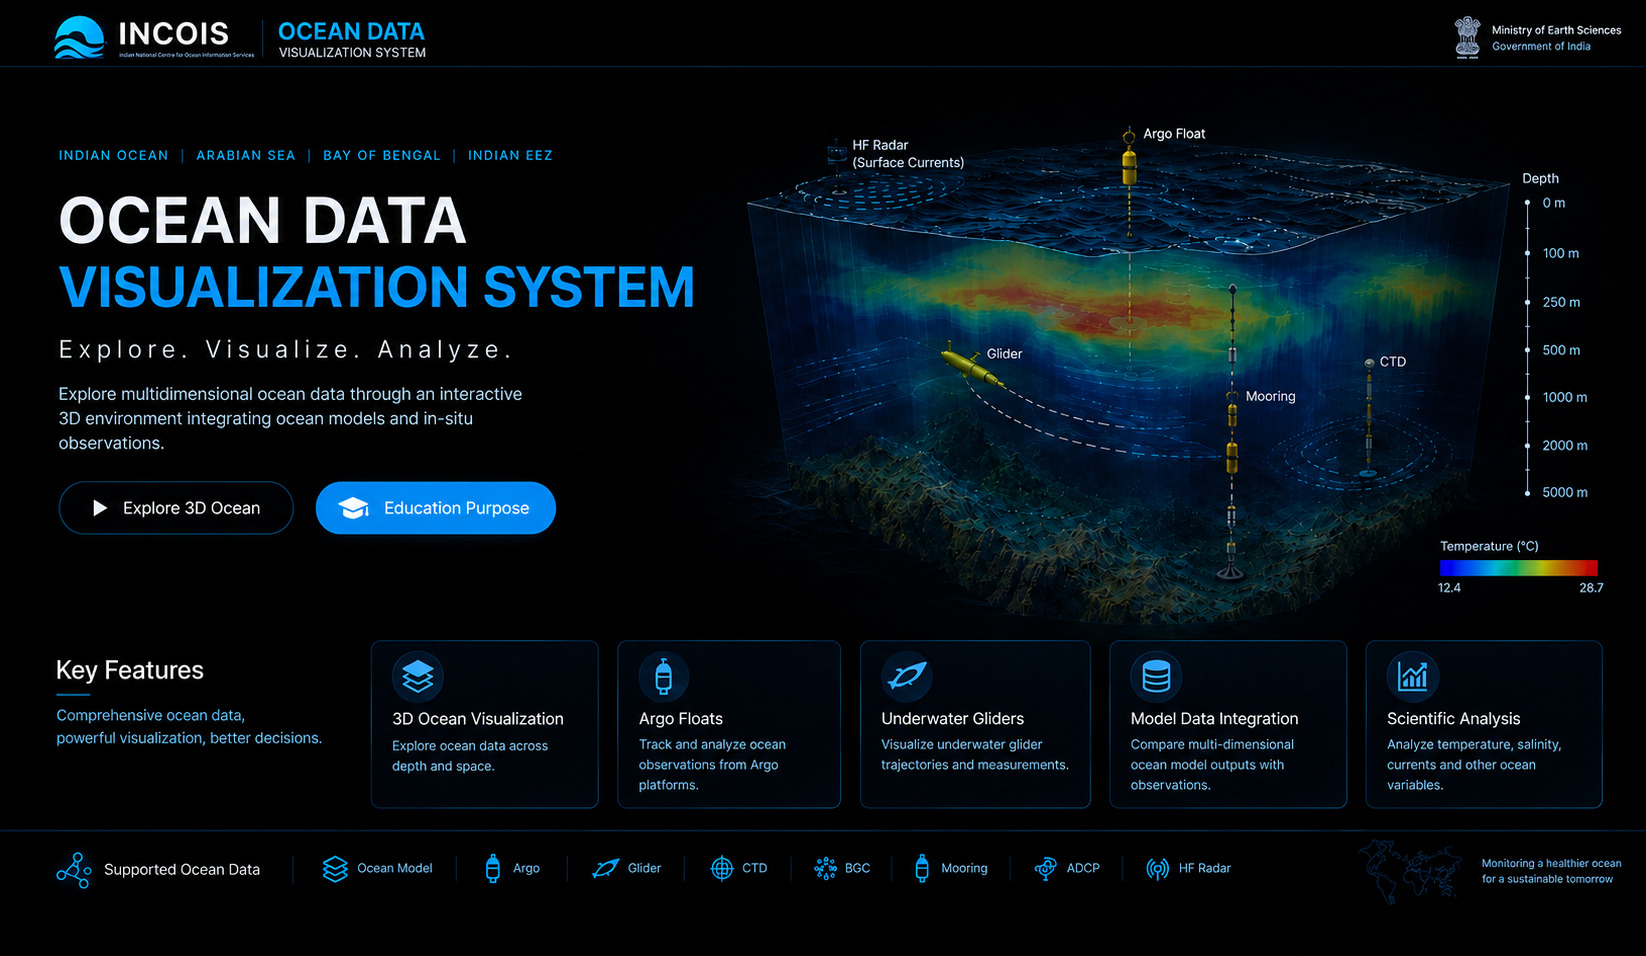
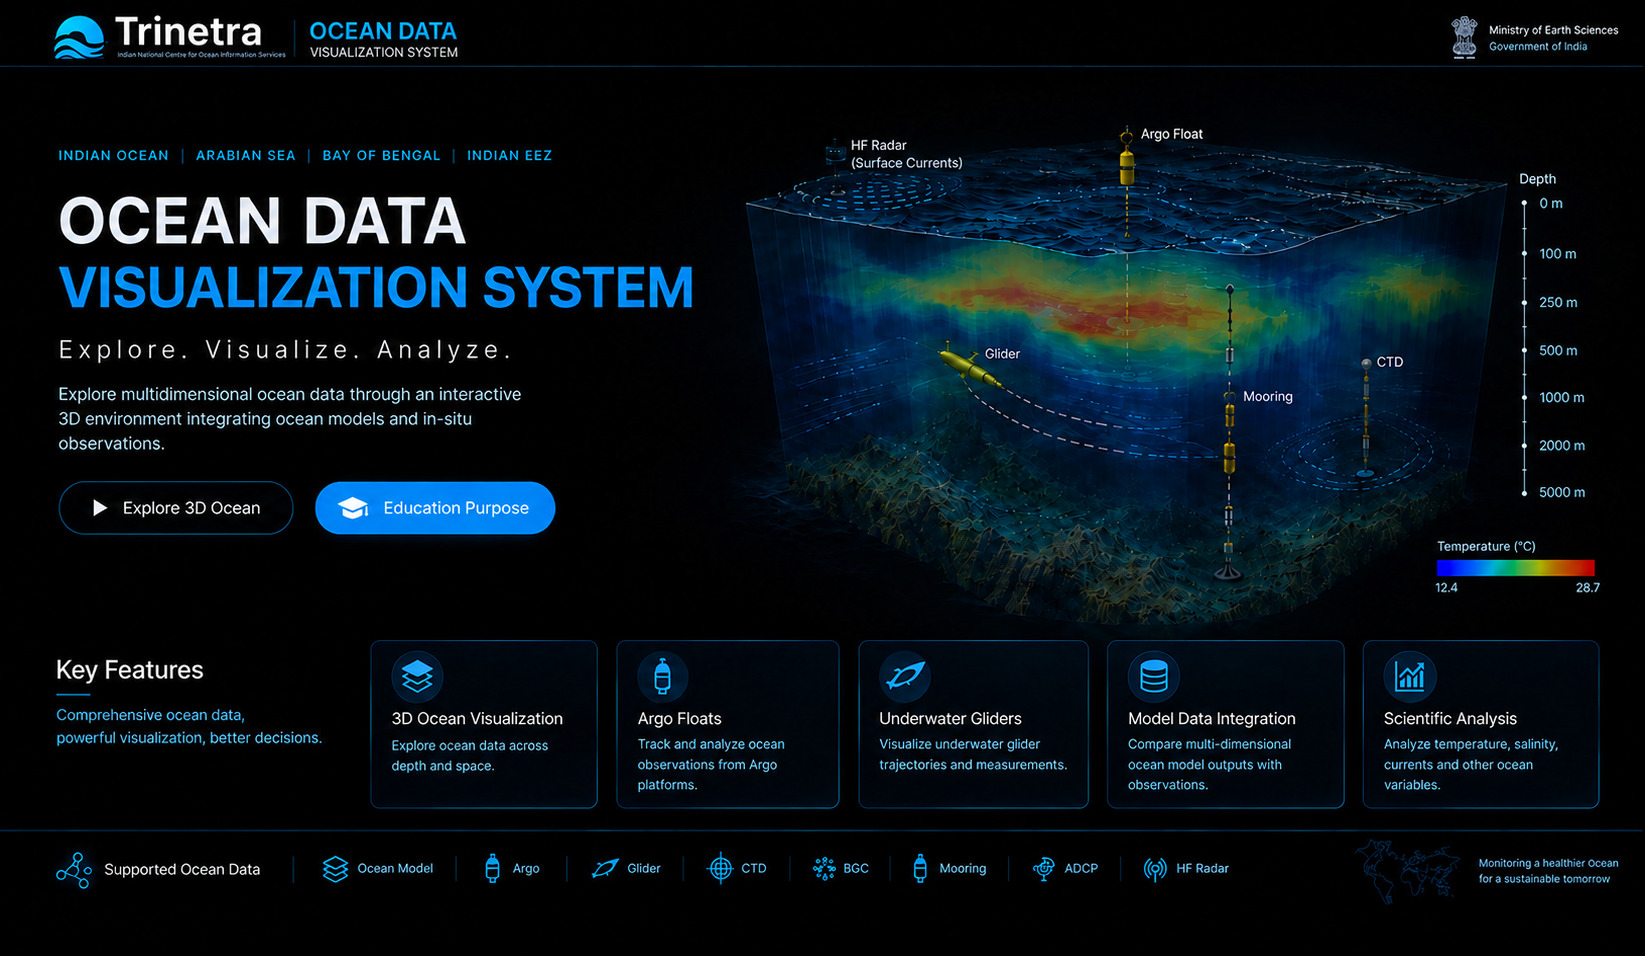
Updated frontend

diff --git a/frontend/src/pages/Analysis.jsx b/frontend/src/pages/Analysis.jsx
@@ -3226,7 +3226,7 @@ export default function Analysis() {
         <div className="analysis-brand">
 
           <div>
-            OceanVista
+            Trinetra
           </div>
 
           <div>

diff --git a/frontend/src/pages/Explorer.jsx b/frontend/src/pages/Explorer.jsx
@@ -1806,7 +1806,7 @@ function CreditsButton() {
           </strong>
 
           <span>
-            OceanVista
+            Trinetra
           </span>
 
           <span>
